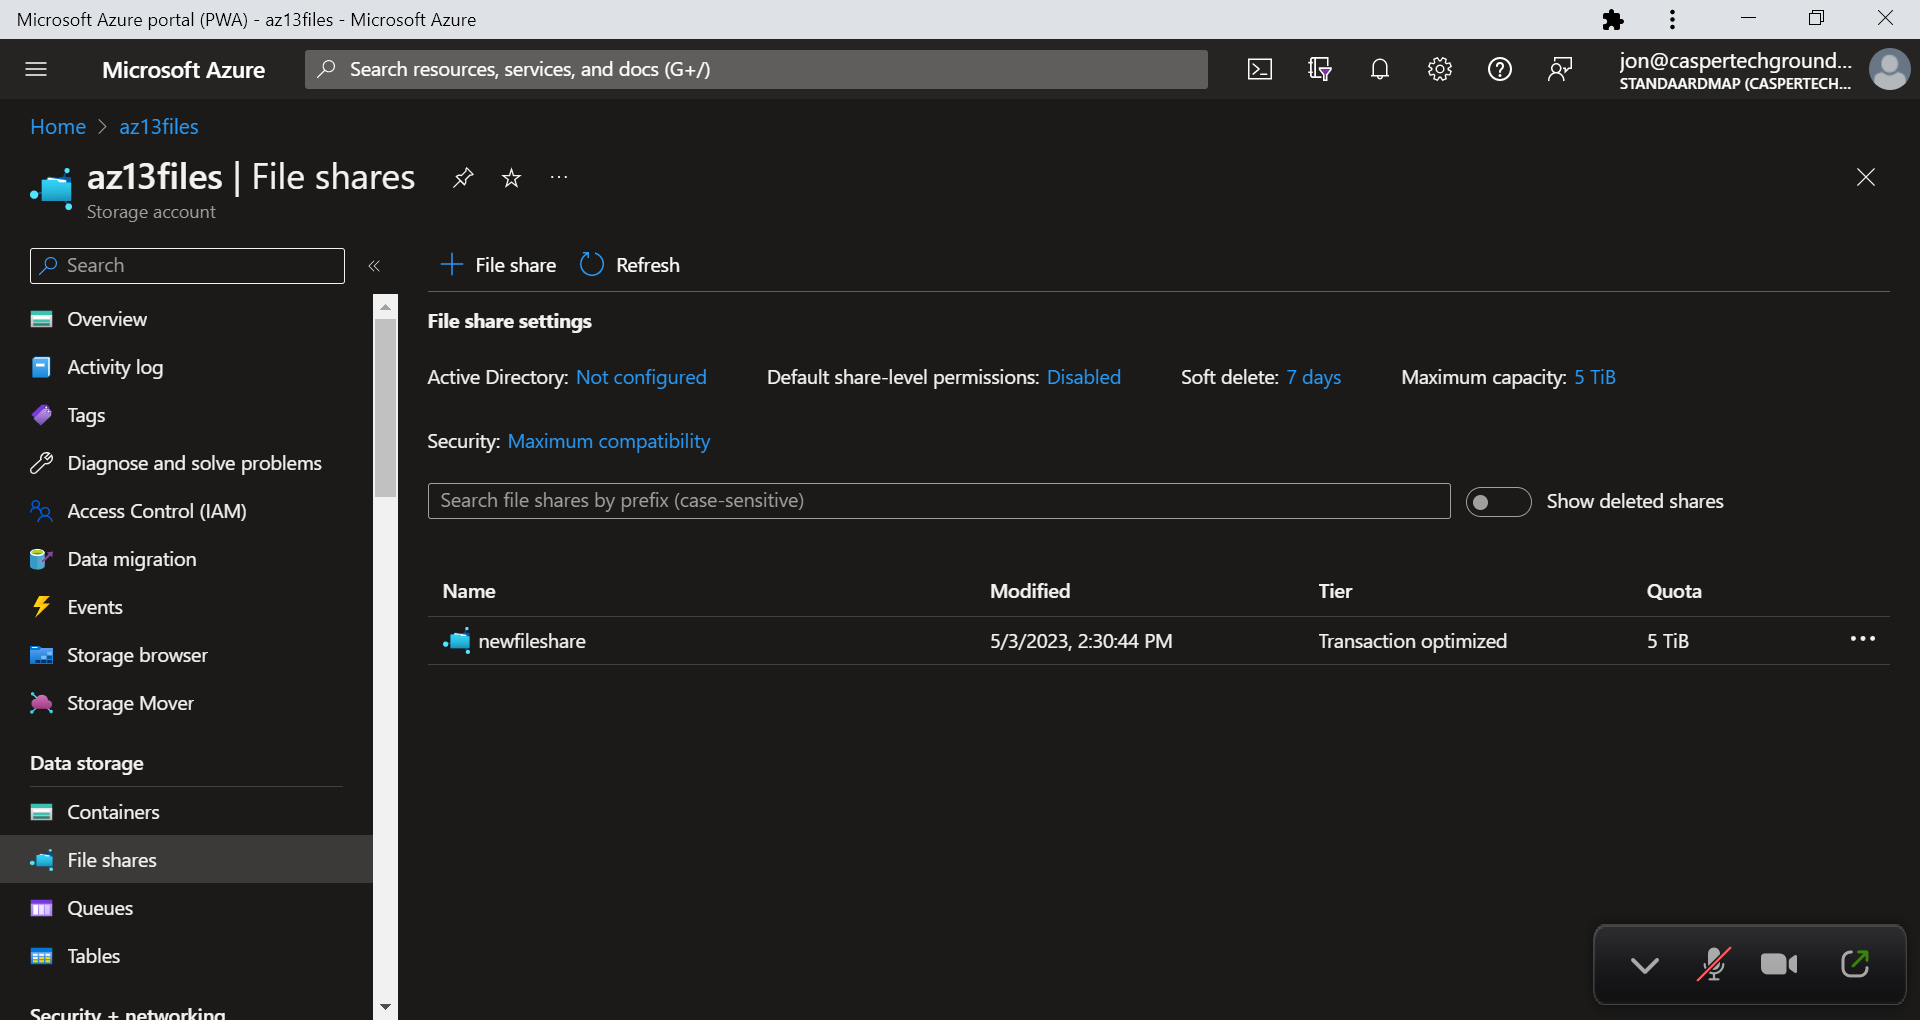
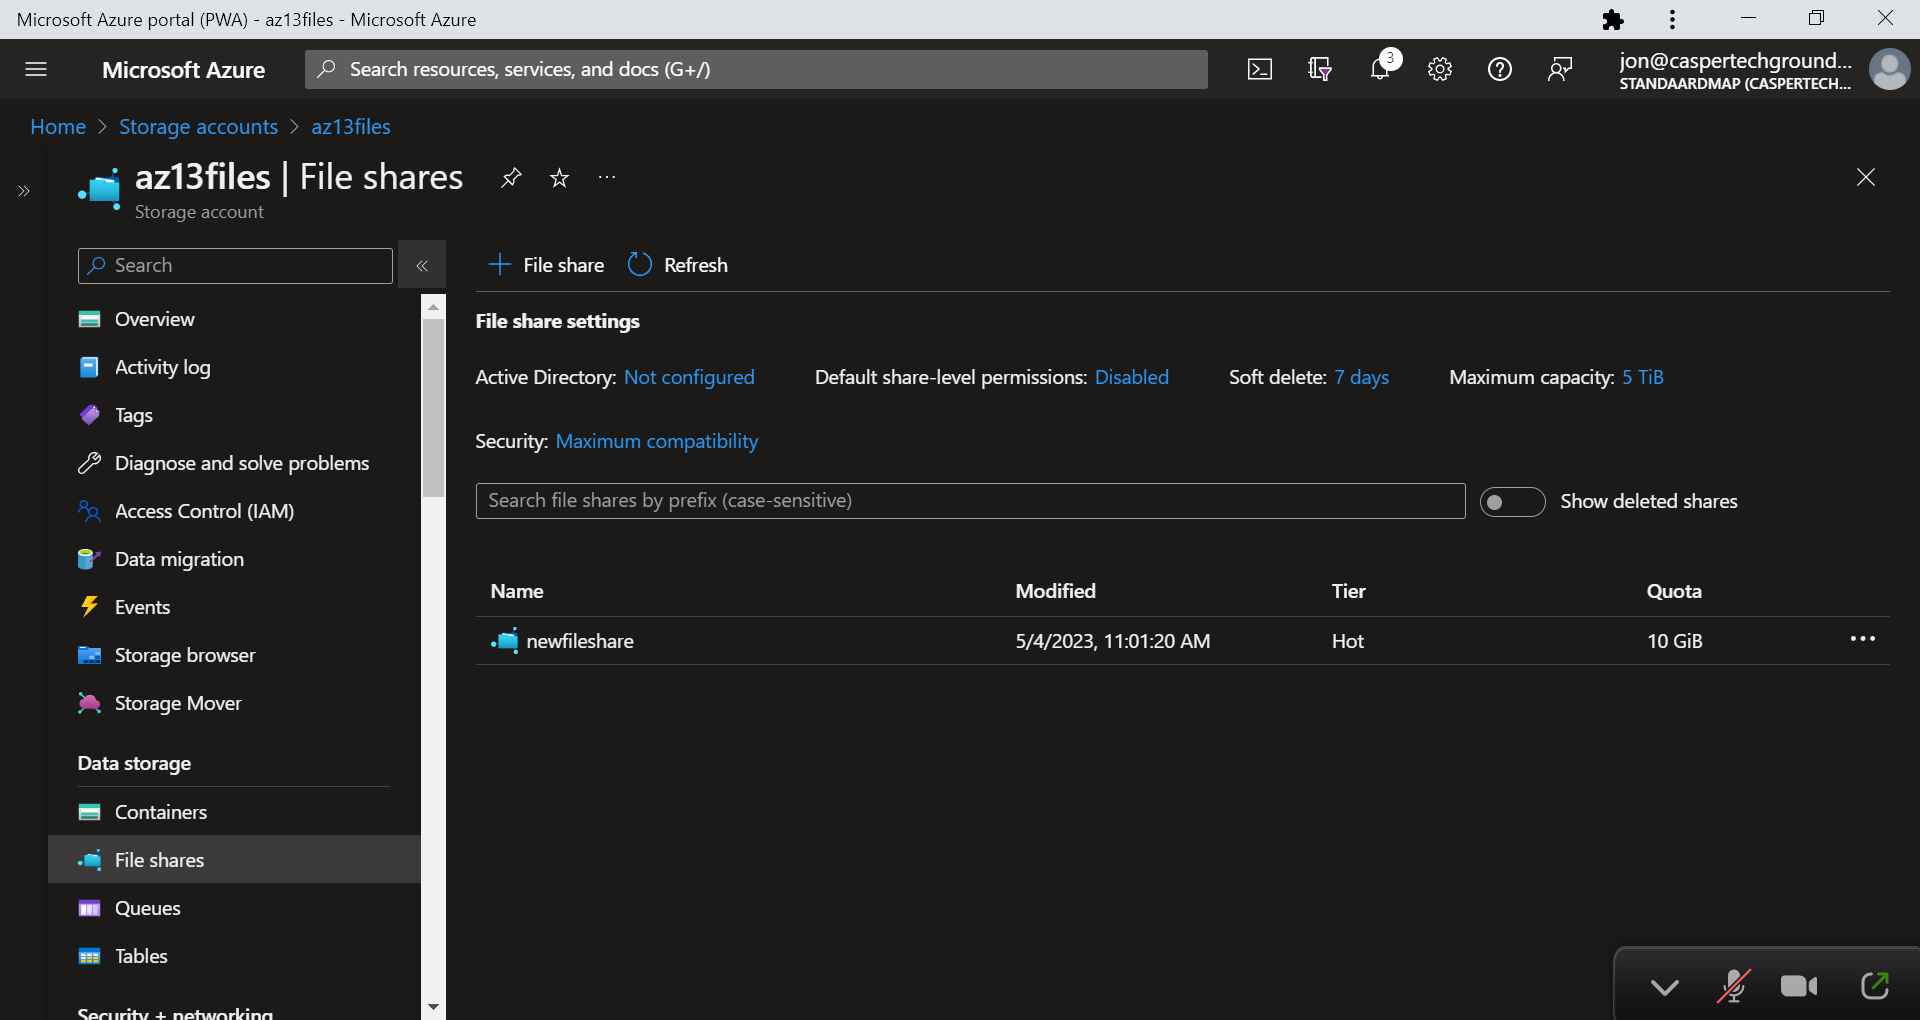
updates

diff --git a/05_AZ/AZ-13.md b/05_AZ/AZ-13.md
@@ -72,14 +72,29 @@ Practical:
 
 * Persistent Storage for containers
 
+Make a storage account and create a new File share:
+![Alt text](../00_includes/Week5/AZ-13.1.PNG)
 
+Het script voor het maken van een windows VM heb ik van deze [repo](https://github.com/MarczakIO/azure4everyone-samples/blob/master/azure-files-introduction/create-windows-vm.sh) gehaald.
 
+Connect vervolgens met de 'newfileshare' (show script)
+![Alt text](../00_includes/Week3/AZ-13.2.PNG)
 
+copy paste script in de VM powershell:
 
+![Alt text](../00_includes/Week3/AZ-13.3.PNG)
+
+En upload een plaatje in de portal:
+
+![Alt text](../00_includes/Week5/AZ-13.4.PNG)
 
 **Azure Database (+ managed instance)**
 
-Azure SQL Managed Instance is the intelligent, scalable cloud database service that combines the broadest SQL Server database engine compatibility with all the benefits of a fully managed and evergreen platform as a service.
+[Relational 1. relaties (tabellen van data) meerdere kleine tabellen waarin relaties staan bv. Pizzazaak tabel met ingredienten en een tabel met bestellingen. (hoeveel ingredienten heb ik in totaal nodig etc.) (sql. structured query language (bv where is ingredient a, stock?, need orders? makkelijk querying)) (shared keys (?)) & non-relational database (not- ('not only sql') sql) een grote tabel waarin je data kan filteren. probleem: niet heel snel als je miljoenen data punten hebt. heel de database moet gelezen worden om een query op te lossen. voordeel is dat je niet zo'n strakke struktuur hebt. Je hoeft niet iedere tabel opnieuw te updaten dus makkelijker schaalbaar. ook trager dus om te lezen. relaties tussen data is moeilijker uit te lezen. makkelijk voor big data.
+
+Tegenwoordig: best of  both worlds, wel relationeel samen met niet relationeel al naar gelang de situatie. unstructured data gaat naar nonrelational, structured data gaat naar sql] 
+
+Azure SQL Managed Instance is the intelligent, scalable cloud database service that combines the broadest SQL Server database engine compatibility with all the benefits of a fully managed and evergreen platform as a service. [gemanaged door de cloudprovider]
 
 ### Gebruikte bronnen
 [Documentatie over Azure files](https://learn.microsoft.com/en-us/azure/storage/files/storage-files-introduction)
